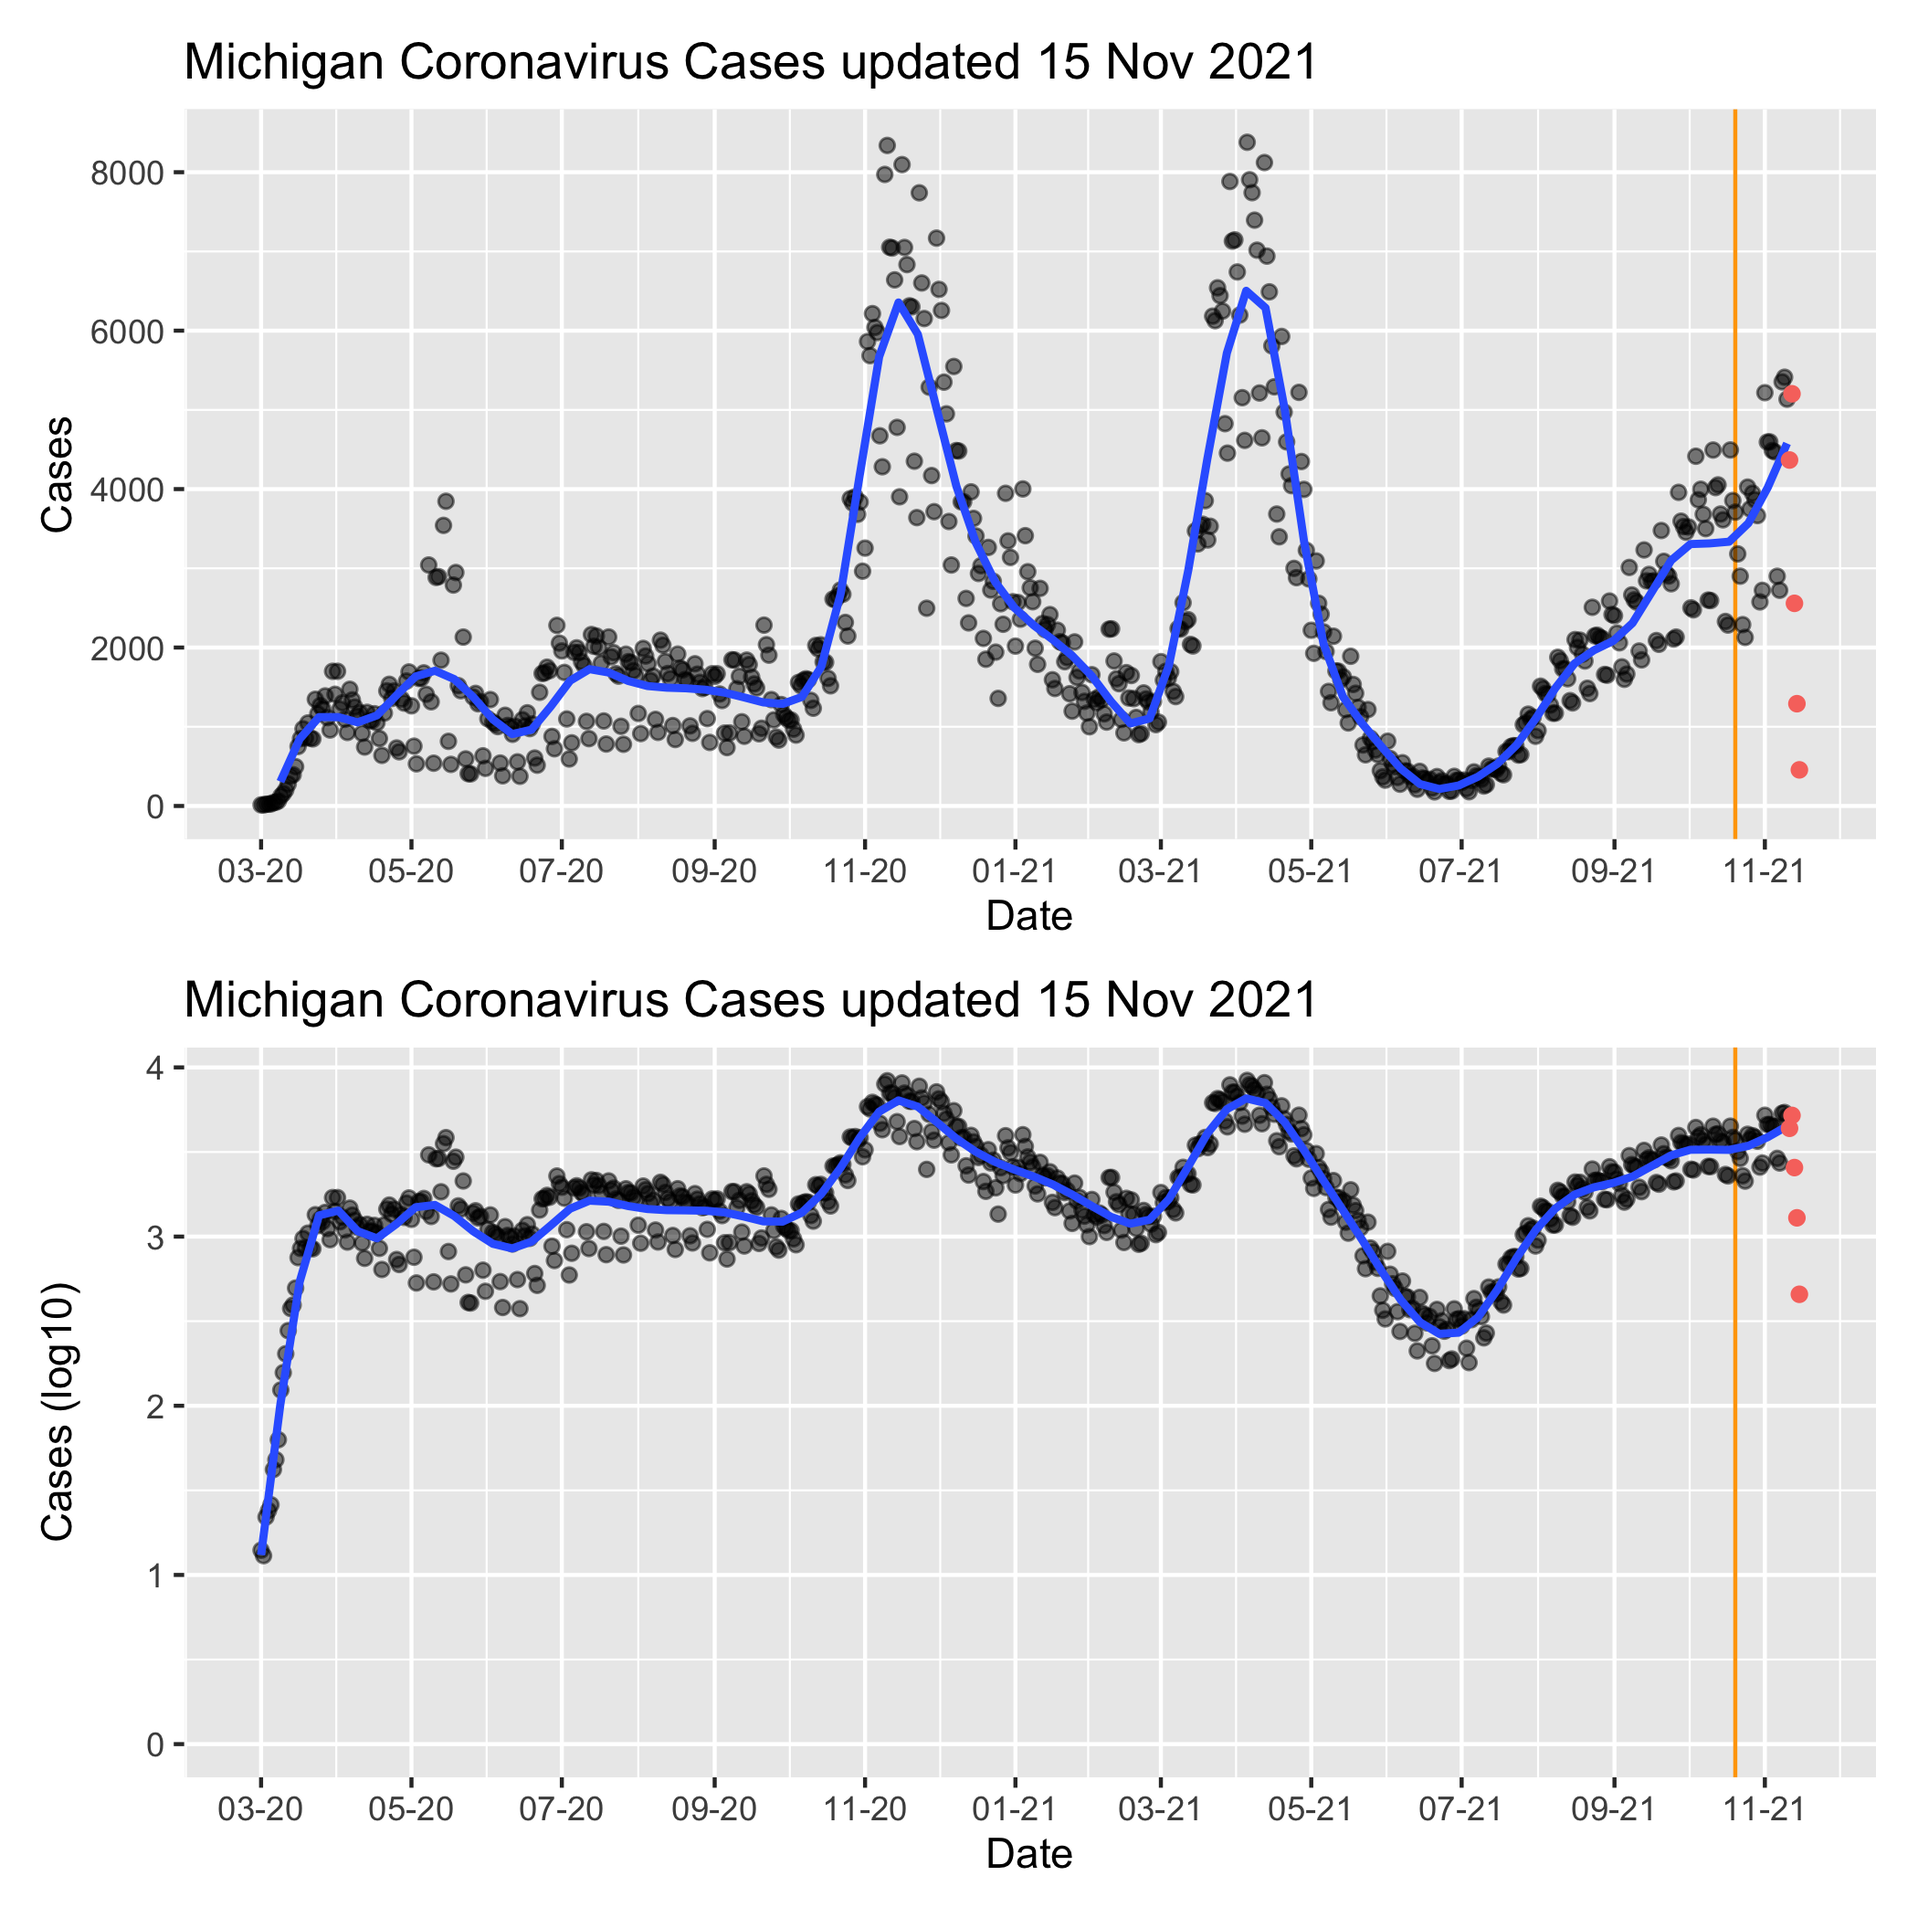
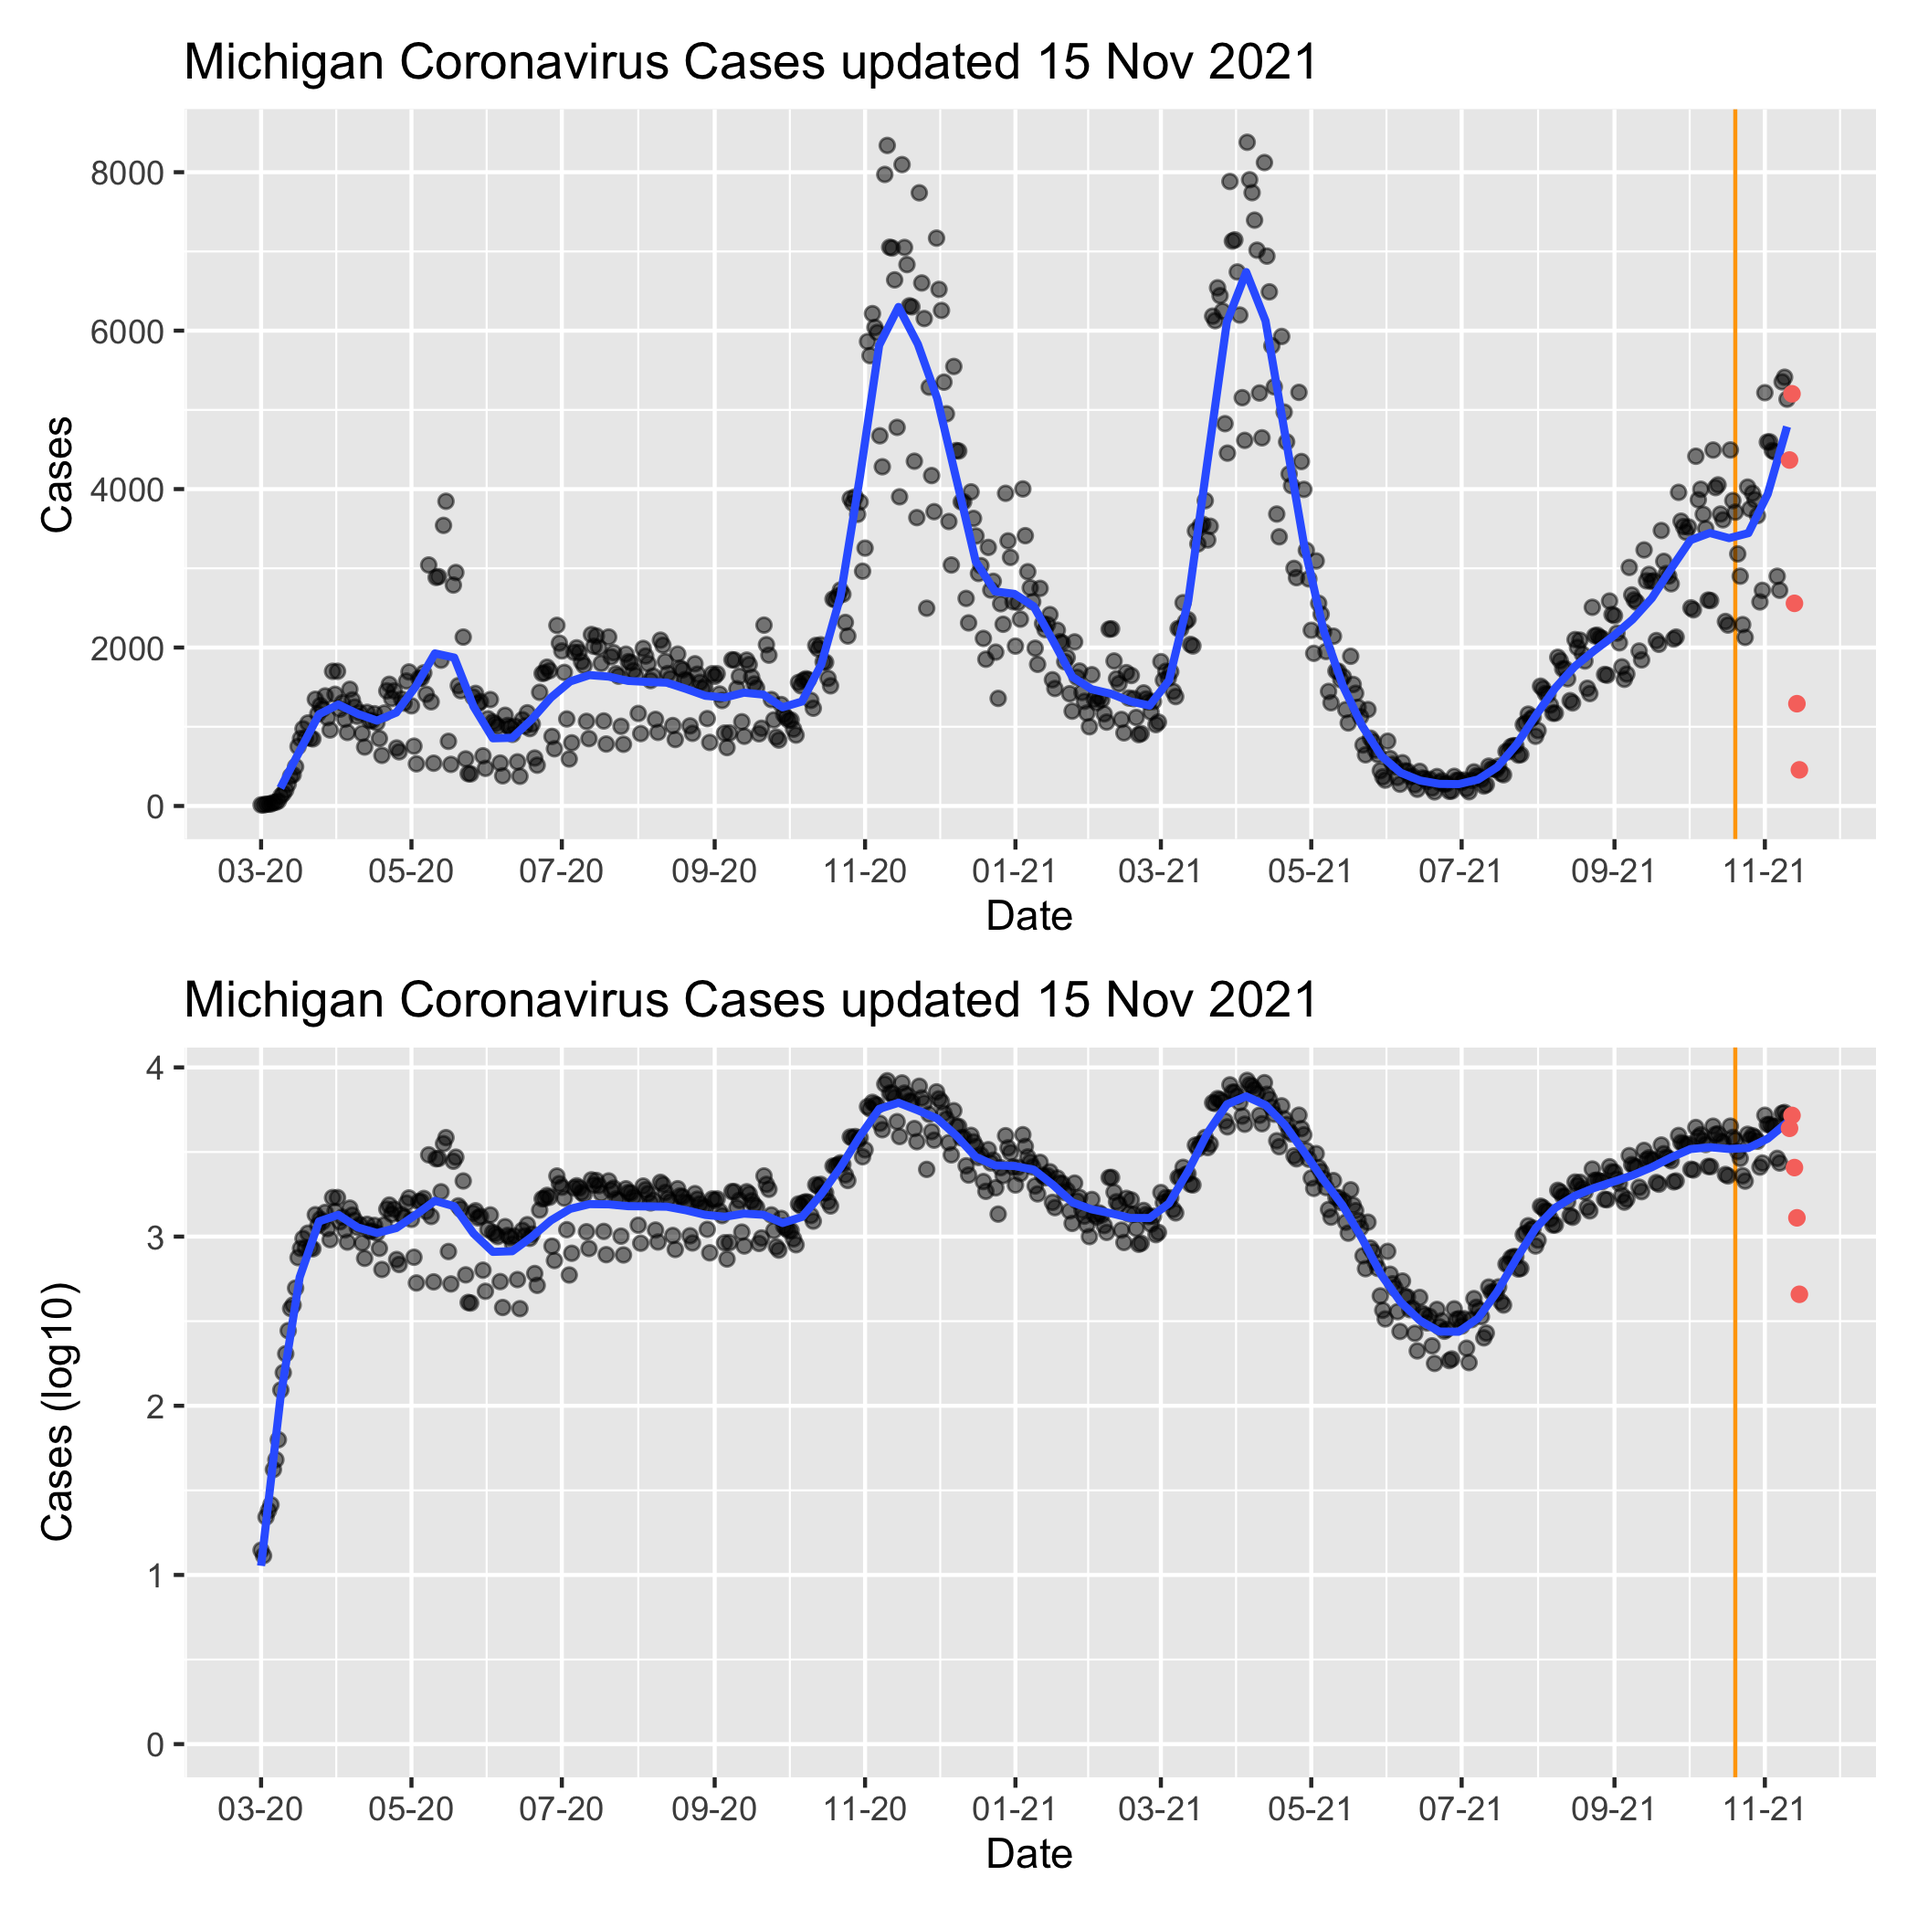
Nov-17 2021 09:12 update

diff --git a/MiCorona.md b/MiCorona.md
@@ -89,7 +89,7 @@ viz_function <- function(df, df2, x, y, vertline = TRUE, log = FALSE) {
   plot <- ggplot(data = df, mapping = aes(x = as.Date({{x}}), y = y)) +
     ylim(c(0,NA)) +
     geom_point(alpha = .5) +
-    geom_smooth(method = "gam", formula = y ~ s(x, bs = "cs", k = 30), se = FALSE) +
+    geom_smooth(method = "gam", formula = y ~ s(x, bs = "cs", k = 50), se = FALSE) +
     geom_point(
       data = df2,
       mapping = aes(x = as.Date({{x}}), y = y, color = "red")
@@ -127,7 +127,7 @@ viz_function(mi_cases_by_day_exclusive, mi_cases_by_day_last4, Date, Deaths, ver
   viz_function(mi_cases_by_day_exclusive, mi_cases_by_day_last4, Date, Deaths, vertline = FALSE, log = TRUE)
 ```
 
-    ## Warning: Removed 2 rows containing missing values (geom_smooth).
+    ## Warning: Removed 1 rows containing missing values (geom_smooth).
 
     ## Warning: Removed 13 rows containing non-finite values (stat_smooth).
 
